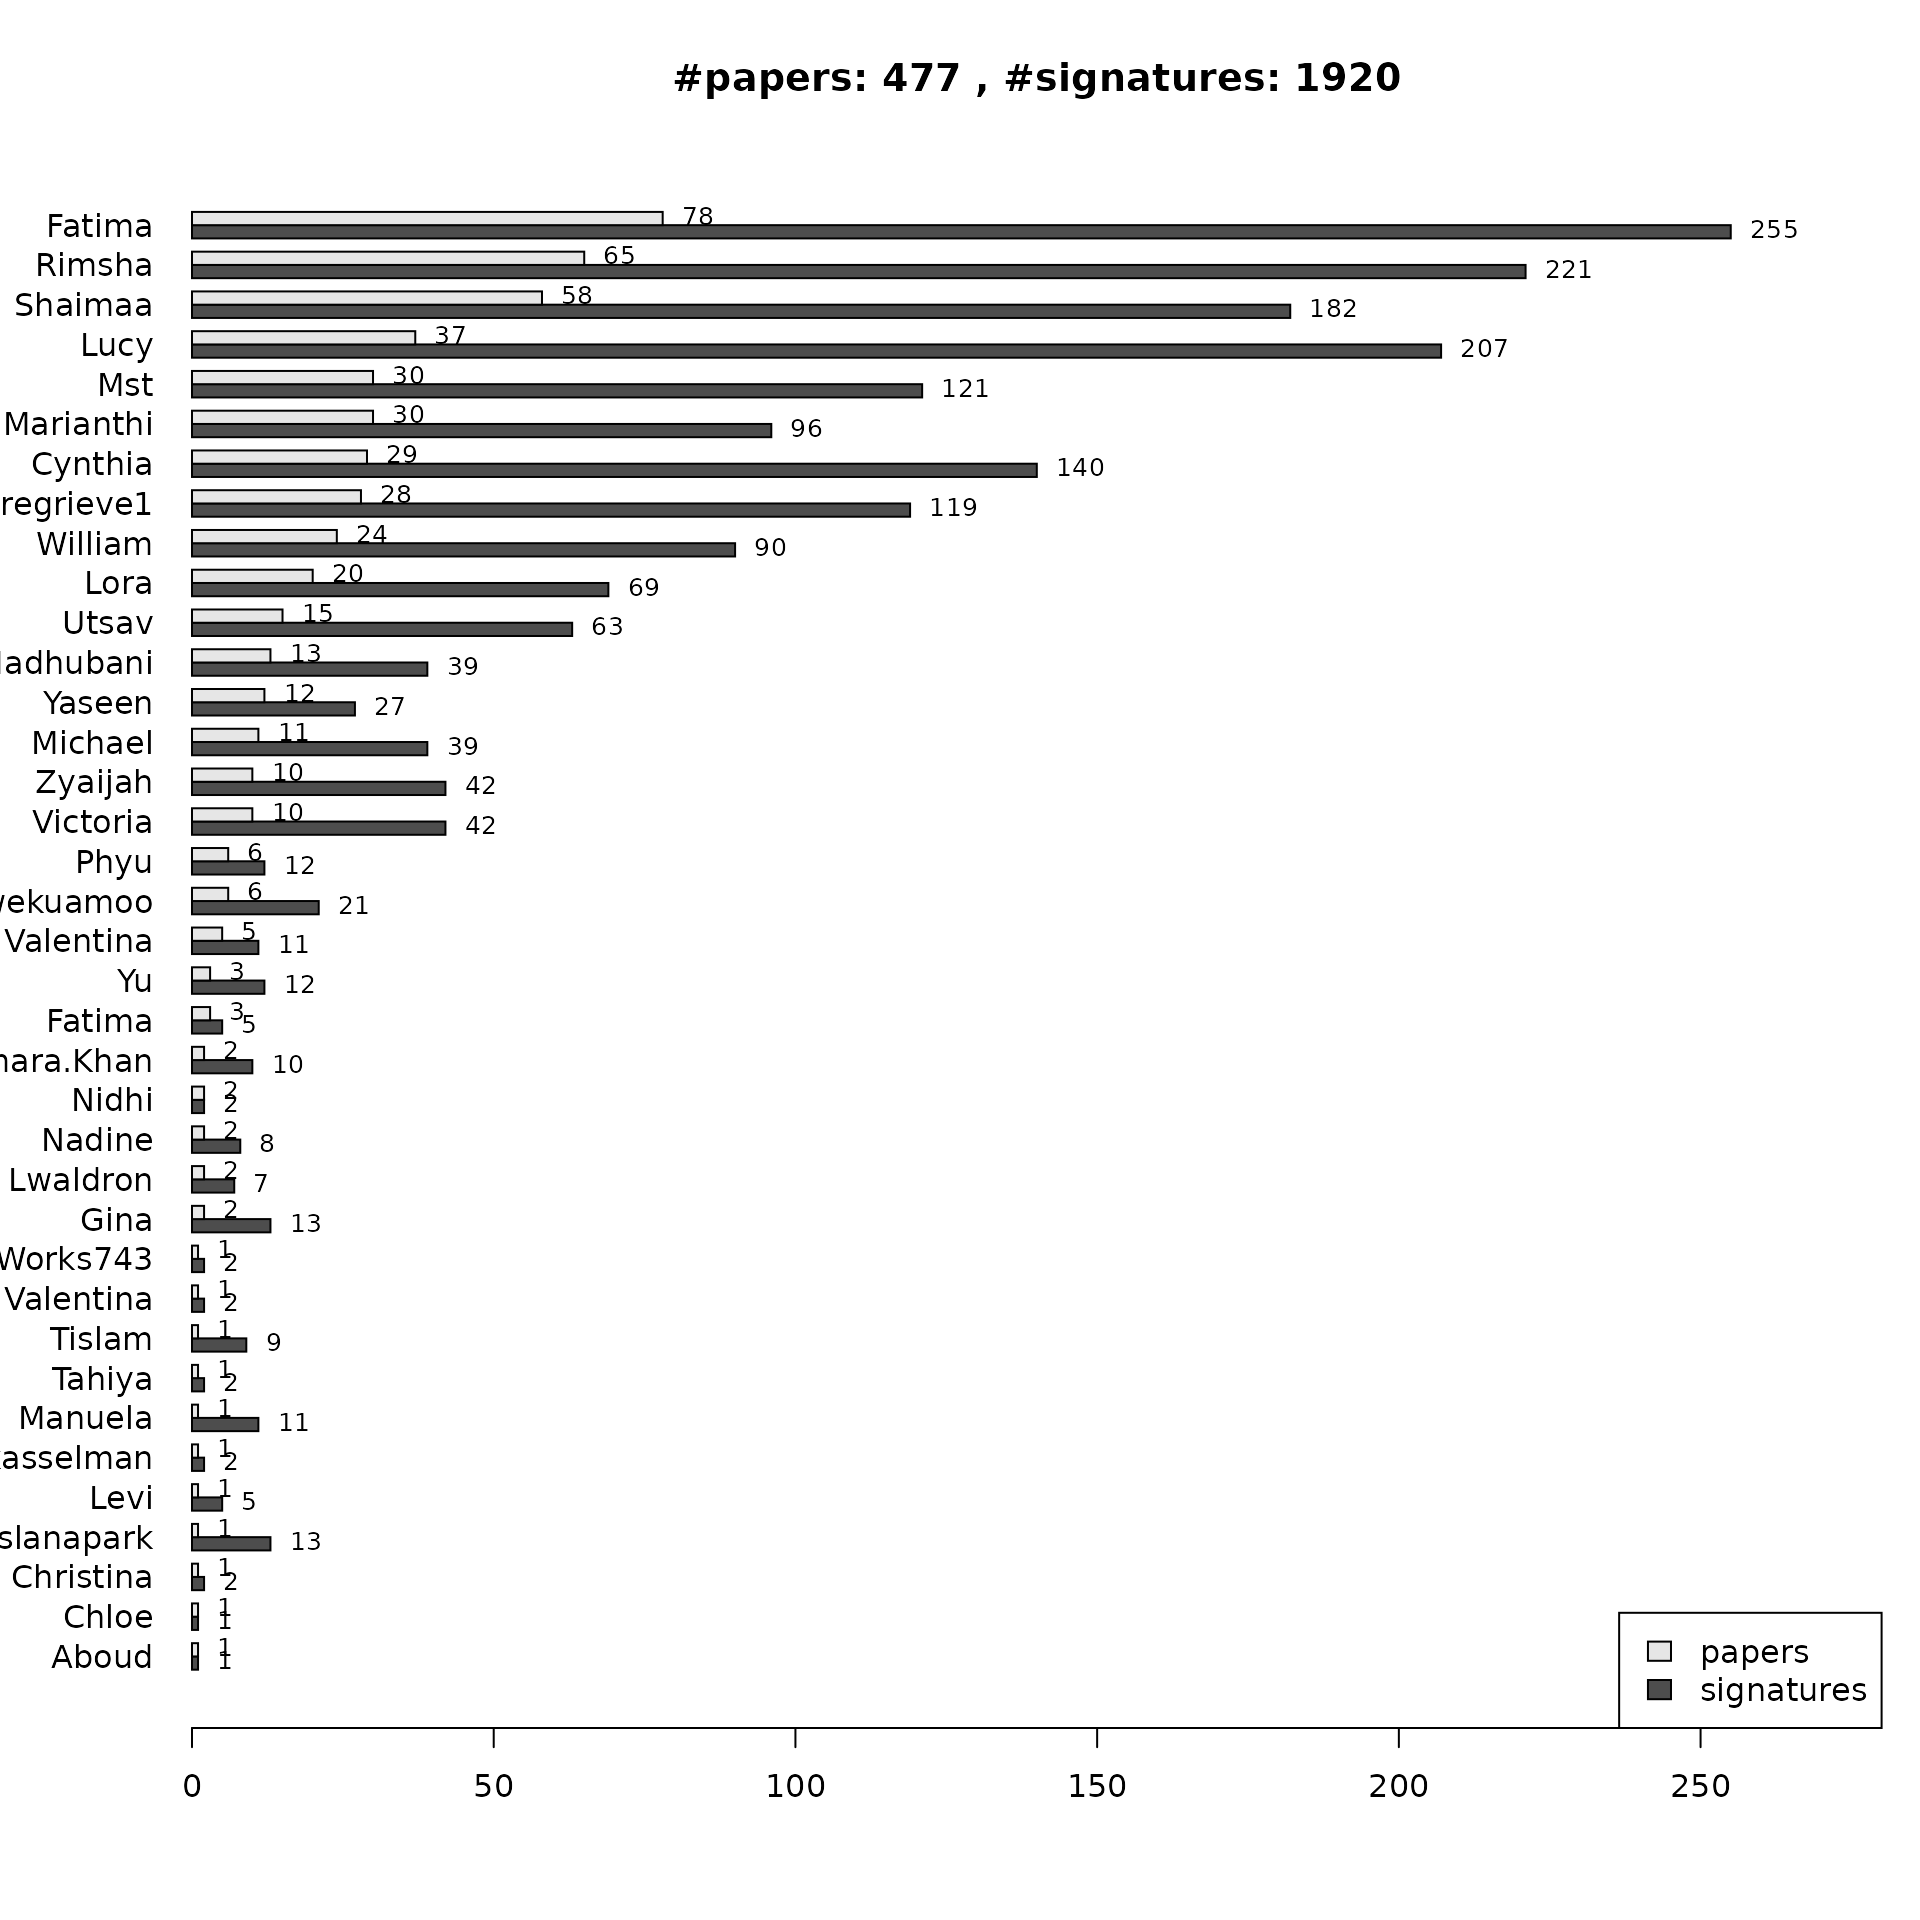
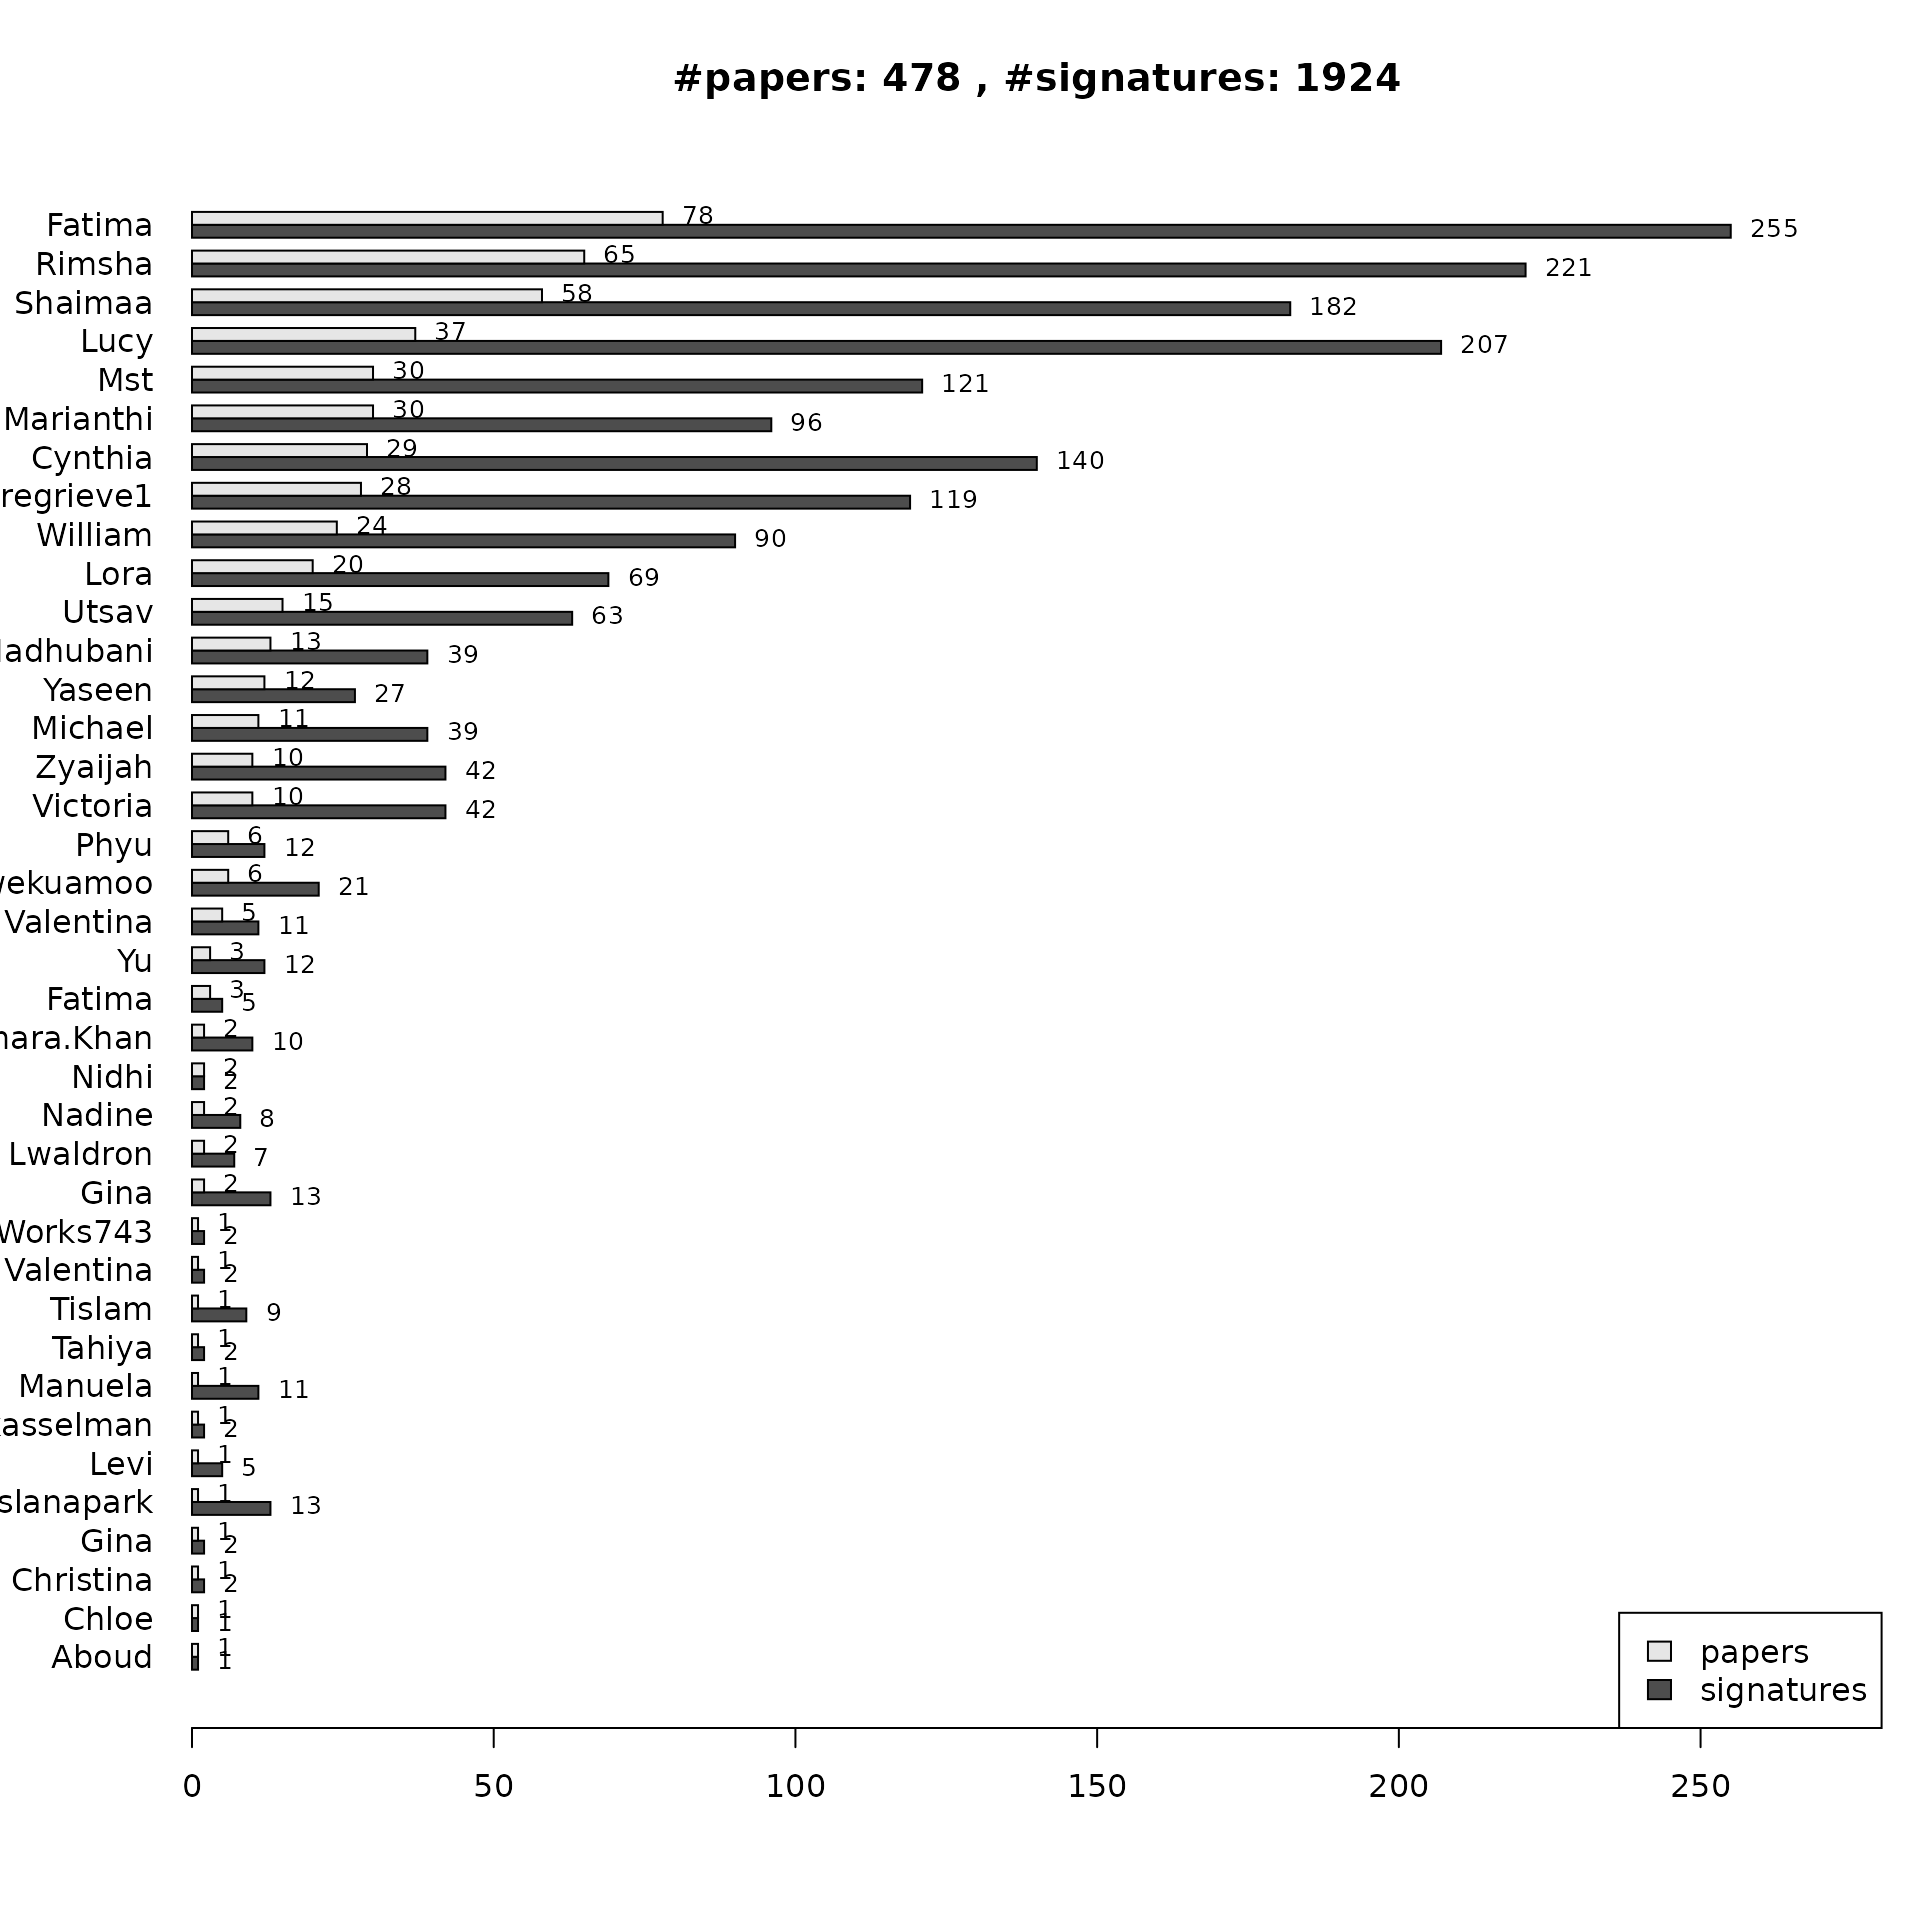
Deploying to gh-pages from  @ 9c0e06229ef63542f44c7cb56ad935cc12b6708c 🚀

Changed region(s): [[0.0, 0.0938, 0.8125, 0.8438], [0.4688, 0.0312, 0.5, 0.0625]]

diff --git a/articles/BugSigDBStats.html b/articles/BugSigDBStats.html
@@ -85,7 +85,7 @@
 <p>Get bulk export from bugsigdb.org:</p>
 <div class="sourceCode" id="cb2"><pre class="downlit">
 <span class="va">full.dat</span> <span class="op">&lt;-</span> <span class="fu">bugsigdbr</span><span class="fu">::</span><span class="fu"><a href="https://rdrr.io/pkg/bugsigdbr/man/importBugSigDB.html">importBugSigDB</a></span><span class="op">(</span><span class="op">)</span></pre></div>
-<pre><code>## using temporary cache /tmp/Rtmp7L6vJ9/BiocFileCache</code></pre>
+<pre><code>## using temporary cache /tmp/Rtmp1XTrH6/BiocFileCache</code></pre>
 <pre><code>## 
 ## ── Column specification ────────────────────────────────────────────────────────
 ## cols(
@@ -129,7 +129,7 @@
 ## )</code></pre>
 <div class="sourceCode" id="cb7"><pre class="downlit">
 <span class="fu"><a href="https://rdrr.io/r/base/dim.html">dim</a></span><span class="op">(</span><span class="va">full.dat</span><span class="op">)</span></pre></div>
-<pre><code>## [1] 1985   45</code></pre>
+<pre><code>## [1] 1988   45</code></pre>
 <div class="sourceCode" id="cb9"><pre class="downlit">
 <span class="fu"><a href="https://rdrr.io/r/base/colnames.html">colnames</a></span><span class="op">(</span><span class="va">full.dat</span><span class="op">)</span></pre></div>
 <pre><code>##  [1] "Study"                      "Study design"              
@@ -166,7 +166,7 @@
 <pre><code>## [1] 490</code></pre>
 <div class="sourceCode" id="cb13"><pre class="downlit">
 <span class="fu"><a href="https://rdrr.io/r/base/nrow.html">nrow</a></span><span class="op">(</span><span class="va">full.dat</span><span class="op">)</span></pre></div>
-<pre><code>## [1] 1985</code></pre>
+<pre><code>## [1] 1988</code></pre>
 <p>Publication date of the curated papers:</p>
 <div class="sourceCode" id="cb15"><pre class="downlit">
 <span class="va">pmids</span> <span class="op">&lt;-</span> <span class="va">pmids</span><span class="op">[</span><span class="op">!</span><span class="fu"><a href="https://rdrr.io/r/base/NA.html">is.na</a></span><span class="op">(</span><span class="va">pmids</span><span class="op">)</span><span class="op">]</span>
@@ -196,12 +196,12 @@
 <span class="co"># more realistic estimation of number of signatures curated</span>
 <span class="va">dat</span> <span class="op">&lt;-</span> <span class="fu"><a href="../reference/stripEmptySignatures.html">stripEmptySignatures</a></span><span class="op">(</span><span class="va">full.dat</span><span class="op">)</span>
 <span class="fu"><a href="https://rdrr.io/r/base/nrow.html">nrow</a></span><span class="op">(</span><span class="va">dat</span><span class="op">)</span></pre></div>
-<pre><code>## [1] 1920</code></pre>
+<pre><code>## [1] 1924</code></pre>
 <p>Papers containing only empty UP and DOWN signatures (under curation?):</p>
 <div class="sourceCode" id="cb20"><pre class="downlit">
 <span class="fu"><a href="https://rdrr.io/r/base/sets.html">setdiff</a></span><span class="op">(</span><span class="va">pmids</span>, <span class="fu"><a href="https://rdrr.io/r/base/unique.html">unique</a></span><span class="op">(</span><span class="va">dat</span><span class="op">[</span>,<span class="st">"PMID"</span><span class="op">]</span><span class="op">)</span><span class="op">)</span></pre></div>
 <pre><code>##  [1] 32295867 32937864 32415070 32728349 33903709 33851179 33833065 31910227
-##  [9] 33603076 31917273 22986438 32839514 27027301</code></pre>
+##  [9] 33603076 31917273 22986438 32839514</code></pre>
 <p>Progress over time:</p>
 <div class="sourceCode" id="cb22"><pre class="downlit">
 <span class="va">dat</span><span class="op">[</span>,<span class="st">"Curated date"</span><span class="op">]</span> <span class="op">&lt;-</span> <span class="fu"><a href="https://rdrr.io/r/base/character.html">as.character</a></span><span class="op">(</span><span class="fu">lubridate</span><span class="fu">::</span><span class="fu"><a href="http://lubridate.tidyverse.org/reference/ymd.html">dmy</a></span><span class="op">(</span><span class="va">dat</span><span class="op">[</span>,<span class="st">"Curated date"</span><span class="op">]</span><span class="op">)</span><span class="op">)</span>
@@ -243,6 +243,8 @@
 ##                                          9 
 ##                             Fatima,Yu Wang 
 ##                                          6 
+##                                       Gina 
+##                                          2 
 ##                                Itslanapark 
 ##                                         13 
 ##                                  Kwekuamoo 
